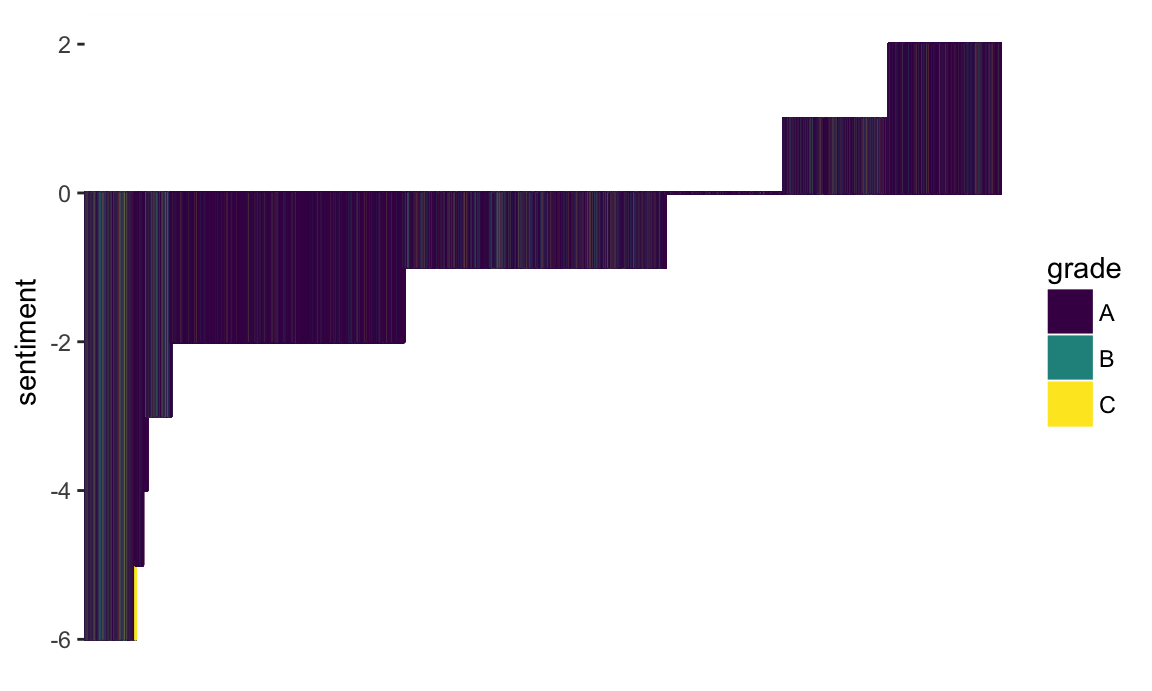
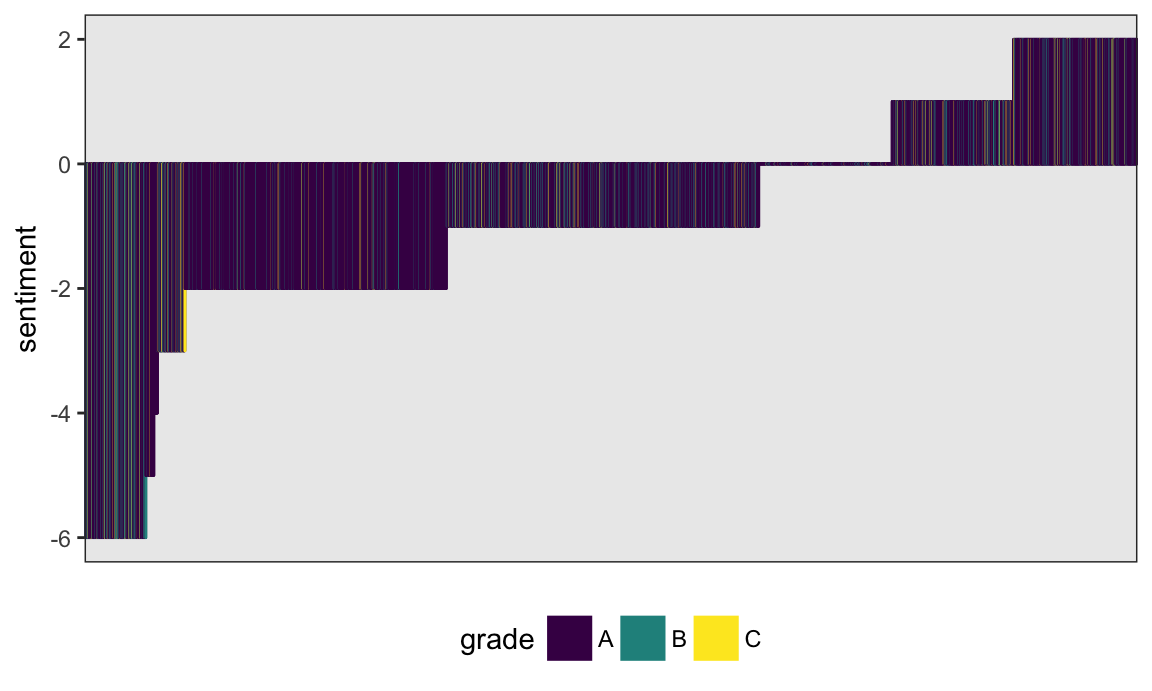
polising example in tidy_text

diff --git a/tidy_text.html b/tidy_text.html
@@ -367,7 +367,7 @@ div.tocify {
 </div>
 
 
-<p>A bit of a digression for a DS class in a Biostat department, but it’s fun, easily related to web data, and deals with strings and factors.</p>
+<p>This is a bit of a diversion for a public-health-focused course in data science, but it’s fun, related to web data, strings, and factors, and emphasizes tools in data wrangling.</p>
 <p>This is the third module in the <a href="topic_data_wrangling_ii.html">Data Wrangling II</a> topic; the relevant slack channel is <a href="https://p8105-fall2017.slack.com/messages/C7N8HG34N">here</a>.</p>
 <div id="some-slides" class="section level2">
 <h2>Some slides</h2>
@@ -379,7 +379,7 @@ div.tocify {
 </div>
 <div id="example" class="section level2">
 <h2>Example</h2>
-<p><a href="https://cran.r-project.org/web/packages/viridis/vignettes/intro-to-viridis.html" class="uri">https://cran.r-project.org/web/packages/viridis/vignettes/intro-to-viridis.html</a></p>
+<p>I’ll write code for today’s content in a new R Markdown document called <code>tidy_text.Rmd</code>, and put it in the same directory / GitHub repo as <code>reading_data.Rmd</code> and <code>strings_and_factors.Rmd</code>. I’m also going to load the usual packages, as well as <code>tidytext</code> and <code>viridis</code> (which has nice <a href="https://cran.r-project.org/web/packages/viridis/vignettes/intro-to-viridis.html">color palettes</a> for plots).</p>
 <pre class="r"><code>library(tidyverse)
 ## Loading tidyverse: ggplot2
 ## Loading tidyverse: tibble
@@ -396,9 +396,13 @@ library(stringr)
 library(forcats)
 
 library(viridis)
-## Loading required package: viridisLite</code></pre>
+## Loading required package: viridisLite
+
+theme_set(theme_bw())
+theme_update(legend.position = &quot;bottom&quot;)</code></pre>
 <div id="data" class="section level3">
 <h3>Data</h3>
+<p>We’re going to continue our examination of the <a href="dataset_restaurant_inspections.html">NYC Restuarant Inspections</a> data. I’ll load this and restrict to data I’m interested in right now.</p>
 <pre class="r"><code>nyc_inspections = read_csv(&quot;./data/DOHMH_New_York_City_Restaurant_Inspection_Results.csv.gz&quot;, 
                            col_types = cols(building = col_character()),
                            na = c(&quot;NA&quot;, &quot;N/A&quot;)) %&gt;% 
@@ -409,75 +413,80 @@ library(viridis)
 </div>
 <div id="words-and-wordcounts" class="section level3">
 <h3>Words and wordcounts</h3>
-<pre class="r"><code>data(stop_words)</code></pre>
-<pre class="r"><code>restaurant_words = nyc_inspections %&gt;% 
-  unnest_tokens(word, violation_description) %&gt;% 
-  anti_join(stop_words, by = &quot;word&quot;)</code></pre>
-<pre class="r"><code>word_counts = restaurant_words %&gt;% count(word, sort = TRUE)
+<p>To illustrate tidy text and text analysis, we’ll focus on the <code>violation_description</code>, which are stored as strings. To begin our analysis, we’ll un-nest the tokens (i.e. words) in each row; the result is a tidy dataset in which each word is contained within a separate row.</p>
+<pre class="r"><code>inspection_words = nyc_inspections %&gt;% 
+  unnest_tokens(word, violation_description)</code></pre>
+<p>There are lots of words here that are uninformative. We’ll remove “stop words” using <code>anti_join</code>; in other settings the words you wan to remove might be different.</p>
+<pre class="r"><code>data(stop_words)
 
-word_counts %&gt;% 
+inspection_words = 
+  anti_join(inspection_words, stop_words)
+## Joining, by = &quot;word&quot;</code></pre>
+<p>Great! Let’s take a look at the most commonly used (informative) words in this dataset.</p>
+<pre class="r"><code>inspection_words %&gt;% 
+  count(word, sort = TRUE) %&gt;% 
   top_n(10) %&gt;% 
   mutate(word = fct_reorder(word, n)) %&gt;% 
   ggplot(aes(x = word, y = n)) + 
-  geom_bar(stat = &quot;identity&quot;, fill = &quot;#009E73&quot;) + 
+  geom_bar(stat = &quot;identity&quot;, fill = &quot;blue&quot;, alpha = .6) + 
   coord_flip()
 ## Selecting by n</code></pre>
 <p><img src="tidy_text_files/figure-html/unnamed-chunk-6-1.png" width="90%" /></p>
 </div>
 <div id="comparing-words-across-groups" class="section level3">
 <h3>Comparing words across groups</h3>
-<p>Finally, let’s compare which words are more likely to come from a “C” versus “A” inspection. We limit to words that appear at least 3 times, and compute the log odds ratio for each word, for the odds of the word appearing in a “C” inspection to the odds of the word appearing in an “A” inspection.</p>
-<pre class="r"><code>word_ratios &lt;- restaurant_words %&gt;%
-    filter(grade %in% c(&quot;A&quot;, &quot;C&quot;)) %&gt;% 
-    count(word, grade) %&gt;%
-    group_by(word) %&gt;% 
-    filter(sum(n) &gt;= 5) %&gt;%
-    ungroup() %&gt;%
-    spread(grade, n, fill = 0) %&gt;%
-    mutate_if(is.numeric, funs((. + 1) / sum(. + 1))) %&gt;%
-    mutate(logratio = log(C / A)) %&gt;%
-    arrange(desc(logratio)) </code></pre>
-<p>We plot the top 15 most distinct words that are more common for “C” and “A” graded inspections.</p>
-<pre class="r"><code>word_ratios %&gt;%
-  group_by(logratio &lt; 0) %&gt;%
-  top_n(15, abs(logratio)) %&gt;%
+<p>Let’s compare which words are more likely to come from a “C” versus “A” inspection grade. We limit to words that appear at least 5 times and compute the approximate log odds ratio for each word.</p>
+<pre class="r"><code>word_ratios = inspection_words %&gt;%
+  filter(grade %in% c(&quot;A&quot;, &quot;C&quot;)) %&gt;% 
+  count(word, grade) %&gt;%
+  group_by(word) %&gt;% 
+  filter(sum(n) &gt;= 5) %&gt;%
   ungroup() %&gt;%
-  mutate(word = reorder(word, logratio)) %&gt;%
-  ggplot(aes(word, logratio, fill = logratio &lt; 0)) +
+  spread(grade, n, fill = 0) %&gt;%
+  mutate(
+    C_odds = (C + 1) / (sum(C) + 1),
+    A_odds = (A + 1) / (sum(A) + 1),
+    log_OR = log(C_odds / A_odds)
+  ) %&gt;%
+  arrange(desc(log_OR)) </code></pre>
+<p>We plot the top 15 most distinct words (that is, words that appear much more frequently in one group than the other) below.</p>
+<pre class="r"><code>word_ratios %&gt;%
+  mutate(pos_log_OR = ifelse(log_OR &gt; 0, &quot;C &gt; A&quot;, &quot;A &gt; C&quot;)) %&gt;% 
+  group_by(pos_log_OR) %&gt;%
+  top_n(15, abs(log_OR)) %&gt;%
+  ungroup() %&gt;%
+  mutate(word = fct_reorder(word, log_OR)) %&gt;%
+  ggplot(aes(word, log_OR, fill = pos_log_OR)) +
   geom_col() +
   coord_flip() +
   ylab(&quot;log odds ratio (C/A)&quot;) +
-  scale_fill_discrete(name = &quot;&quot;, labels = c(&quot;C&quot;, &quot;A&quot;))</code></pre>
+  scale_fill_discrete(name = &quot;&quot;)</code></pre>
 <p><img src="tidy_text_files/figure-html/unnamed-chunk-8-1.png" width="90%" /></p>
+<p>A lot of these seem pretty reasonable.</p>
 </div>
 <div id="sentiment-analysis" class="section level3">
 <h3>Sentiment analysis</h3>
-<p>Now lets score the sentiment in each word. Note that only words that are in the selected sentiment lexicon will be retained, as the rest of the words are not considered meaningful. Let’s start with the sentiment lexicon “bing”, which simply categorizes each word as having a positive or negative sentiment. Then we’ll count the number of positive and negative words in each violation description, and create a score that represents the difference in the number of positive words minus the number of negative words.</p>
+<p>Finally, let’s score the sentiment in each word. We’ll use the “bing” (like <a href="https://www.cs.uic.edu/~liub/FBS/sentiment-analysis.html">Bing Liu</a>, not like <a href="https://www.bing.com">bing.com</a>) sentiment lexicon, which simply categorizes each word as having a positive or negative sentiment.</p>
 <pre class="r"><code>bing_sentiments = get_sentiments(&quot;bing&quot;)</code></pre>
-<p>Not perfect (e.g. this scores <code>cold</code> as <code>negative</code> which might not be accurate), but we’ll use it.</p>
-<pre class="r"><code>restaurant_word_sentiments = restaurant_words %&gt;% 
+<p>Note this is not perfect for this dataset – for example, this scores <code>cold</code> as <code>negative</code> which might not be accurate – but we’ll use it anyway.</p>
+<p>We need to combine this lexicon with our tidy dataset containing words from each inspection. Note that only words that are in the sentiment lexicon will be retained, as the rest of the words are not considered meaningful. We’ll also count the number of positive and negative words in each violation description, and create a score that is the difference between the number of positive words and negative words.</p>
+<pre class="r"><code>inspection_sentiments = inspection_words %&gt;% 
   inner_join(., bing_sentiments) %&gt;% 
   count(inspection_num, sentiment) %&gt;% 
   spread(sentiment, n, fill = 0) %&gt;% 
   mutate(sentiment = positive - negative) %&gt;% 
   select(inspection_num, sentiment)
 ## Joining, by = &quot;word&quot;</code></pre>
+<p>We now have sentiment scores for each inspection. We’ll combine these with our original dataset, which had inspections in each row rather than words in each row – the data tidied for text analysis aren’t really suitable for our current needs.</p>
 <pre class="r"><code>inspection_sentiments = 
-  right_join(nyc_inspections, restaurant_word_sentiments, 
-             by = &quot;inspection_num&quot;)
+  right_join(nyc_inspections, inspection_sentiments, 
+             by = &quot;inspection_num&quot;)</code></pre>
+<p>Finally, let’s make a plot showing inspection sentiments and grades. This could be a pretty big plot, so I’ll restrict to Manhattan and sample only a few thousand entries.</p>
+<pre class="r"><code>set.seed(1)
 
 inspection_sentiments %&gt;% 
-  filter(sentiment &lt; -5) %&gt;% 
-  select(violation_description) %&gt;% 
-  print(n = 2)
-## # A tibble: 8,071 x 1
-##                                                         violation_description
-##                                                                         &lt;chr&gt;
-## 1 &quot;Filth flies or food/refuse/sewage-associated (FRSA) flies present in facil
-## 2 &quot;Filth flies or food/refuse/sewage-associated (FRSA) flies present in facil
-## # ... with 8,069 more rows</code></pre>
-<pre class="r"><code>inspection_sentiments %&gt;% 
   filter(boro == &quot;Manhattan&quot;) %&gt;% 
+  sample_n(5000) %&gt;% 
   mutate(inspection_num = factor(inspection_num),
     inspection_num = fct_reorder(inspection_num, sentiment)) %&gt;% 
   ggplot(aes(x = inspection_num, 
@@ -489,16 +498,17 @@ inspection_sentiments %&gt;%
   scale_fill_viridis(discrete = TRUE) + 
   scale_color_viridis(discrete = TRUE) </code></pre>
 <p><img src="tidy_text_files/figure-html/unnamed-chunk-12-1.png" width="90%" /></p>
+<p>It’s not clear that sentiment is related to grade; this could reflect the very formal language of inspections or the inappropriateness of our lexicon.</p>
 </div>
 </div>
 <div id="other-materials" class="section level2">
 <h2>Other materials</h2>
 <ul>
-<li><a href="https://www.youtube.com/watch?v=0poJP8WQxew" class="uri">https://www.youtube.com/watch?v=0poJP8WQxew</a></li>
-<li><a href="http://tidytextmining.com" class="uri">http://tidytextmining.com</a></li>
-<li><a href="http://varianceexplained.org/r/trump-tweets/" class="uri">http://varianceexplained.org/r/trump-tweets/</a></li>
+<li>The framework we used is explained in detail in the <a href="http://tidytextmining.com">Tidy Text book</a></li>
+<li>One of the book’s authors, Julia Silge, has a <a href="https://www.youtube.com/watch?v=0poJP8WQxew">nice video</a> talking about the work</li>
+<li>The other of the book’s authors, Dave Robinson, used the approach to examine Donald Trump’s tweets in this this <a href="http://varianceexplained.org/r/trump-tweets/">blog post</a></li>
 </ul>
-<p>The code that I produced working examples in lecture is <a href="">here</a>.</p>
+<p>The code that I produced working examples in lecture is <a href="https://github.com/jeff-goldsmith/example_data_wrangling_ii">here</a>.</p>
 </div>
 
 <br><br>
